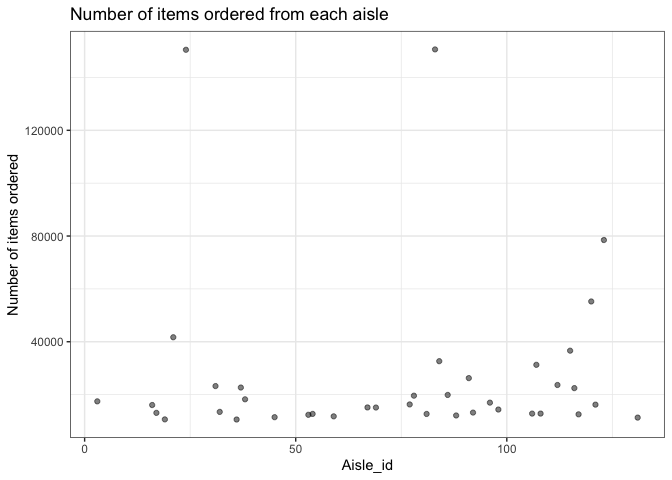
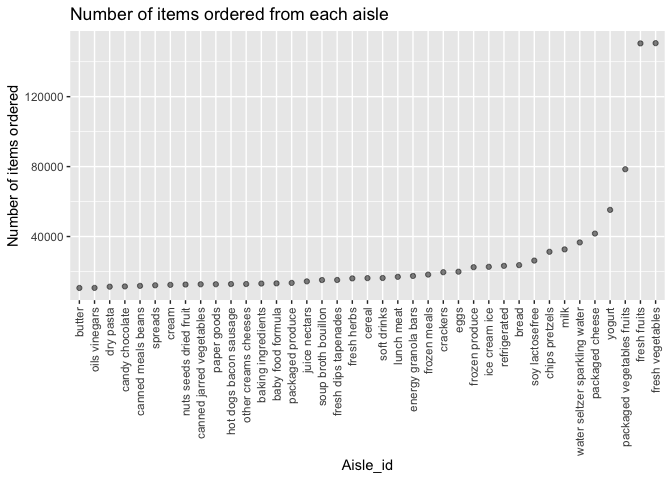
fix scatter plot

diff --git a/hw3_yz4181.md b/hw3_yz4181.md
@@ -29,7 +29,7 @@ data("instacart")
 # find the number of aisle and aisle that the most items ordered from
 aisles_df =
   instacart %>% 
-  group_by(aisle_id, aisle) %>% 
+  group_by(aisle) %>% 
   summarize(order_times = n()) %>% 
   arrange(desc(order_times))
 
@@ -42,24 +42,27 @@ nrow(aisles_df)
 head(aisles_df, 1)
 ```
 
-    ## # A tibble: 1 × 3
-    ## # Groups:   aisle_id [1]
-    ##   aisle_id aisle            order_times
-    ##      <int> <chr>                  <int>
-    ## 1       83 fresh vegetables      150609
+    ## # A tibble: 1 × 2
+    ##   aisle            order_times
+    ##   <chr>                  <int>
+    ## 1 fresh vegetables      150609
 
 ``` r
 # making plot showing number of items order in each aisle
 aisles_df %>% 
   filter(
     order_times > 10000) %>% 
-  ggplot(aes(x = aisle_id, y = order_times)) +
+  mutate(
+    aisle = factor(aisle), 
+    aisle = fct_reorder(aisle, order_times)
+  ) %>% 
+  ggplot(aes(x = aisle, y = order_times)) +
   geom_point(alpha = .5) +
   labs(
     title = "Number of items ordered from each aisle",
     x = "Aisle_id",
     y = "Number of items ordered") + 
-  theme_bw()
+  theme(axis.text.x = element_text(angle = 90, vjust = 0.5, hjust = 1))
 ```
 
 ![](hw3_yz4181_files/figure-gfm/unnamed-chunk-2-1.png)<!-- -->
@@ -160,11 +163,7 @@ brfss =
   brfss_smart2010 %>% 
   janitor::clean_names() %>% 
   filter(topic == "Overall Health",
-         response != "Excellent" |
-         response != "Poor" |
-         response != "Very good"|
-         response != "Good" |
-         response != "Fair") %>% 
+         response %in% c("Excellent","Poor", "Very good", "Good", "Fair")) %>% 
   mutate(
     response = forcats::fct_relevel(response, c("Poor", "Fair", "Good", "Very good", "Excellent"))
   )
@@ -227,7 +226,7 @@ excellent_response =
   filter(response == "Excellent") %>% 
   select(year, locationabbr, data_value) %>% 
   group_by(year, locationabbr) %>% 
-  summarize(average_data_value = mean(data_value))
+  summarize(average_data_value = mean(data_value, na.rm = T))
 ```
 
     ## `summarise()` has grouped output by 'year'. You can override using the `.groups` argument.
@@ -242,8 +241,6 @@ excellent_response %>%
     y = "Average data value"
   ) 
 ```
-
-    ## Warning: Removed 3 row(s) containing missing values (geom_path).
 
 ![](hw3_yz4181_files/figure-gfm/unnamed-chunk-6-1.png)<!-- -->
 
